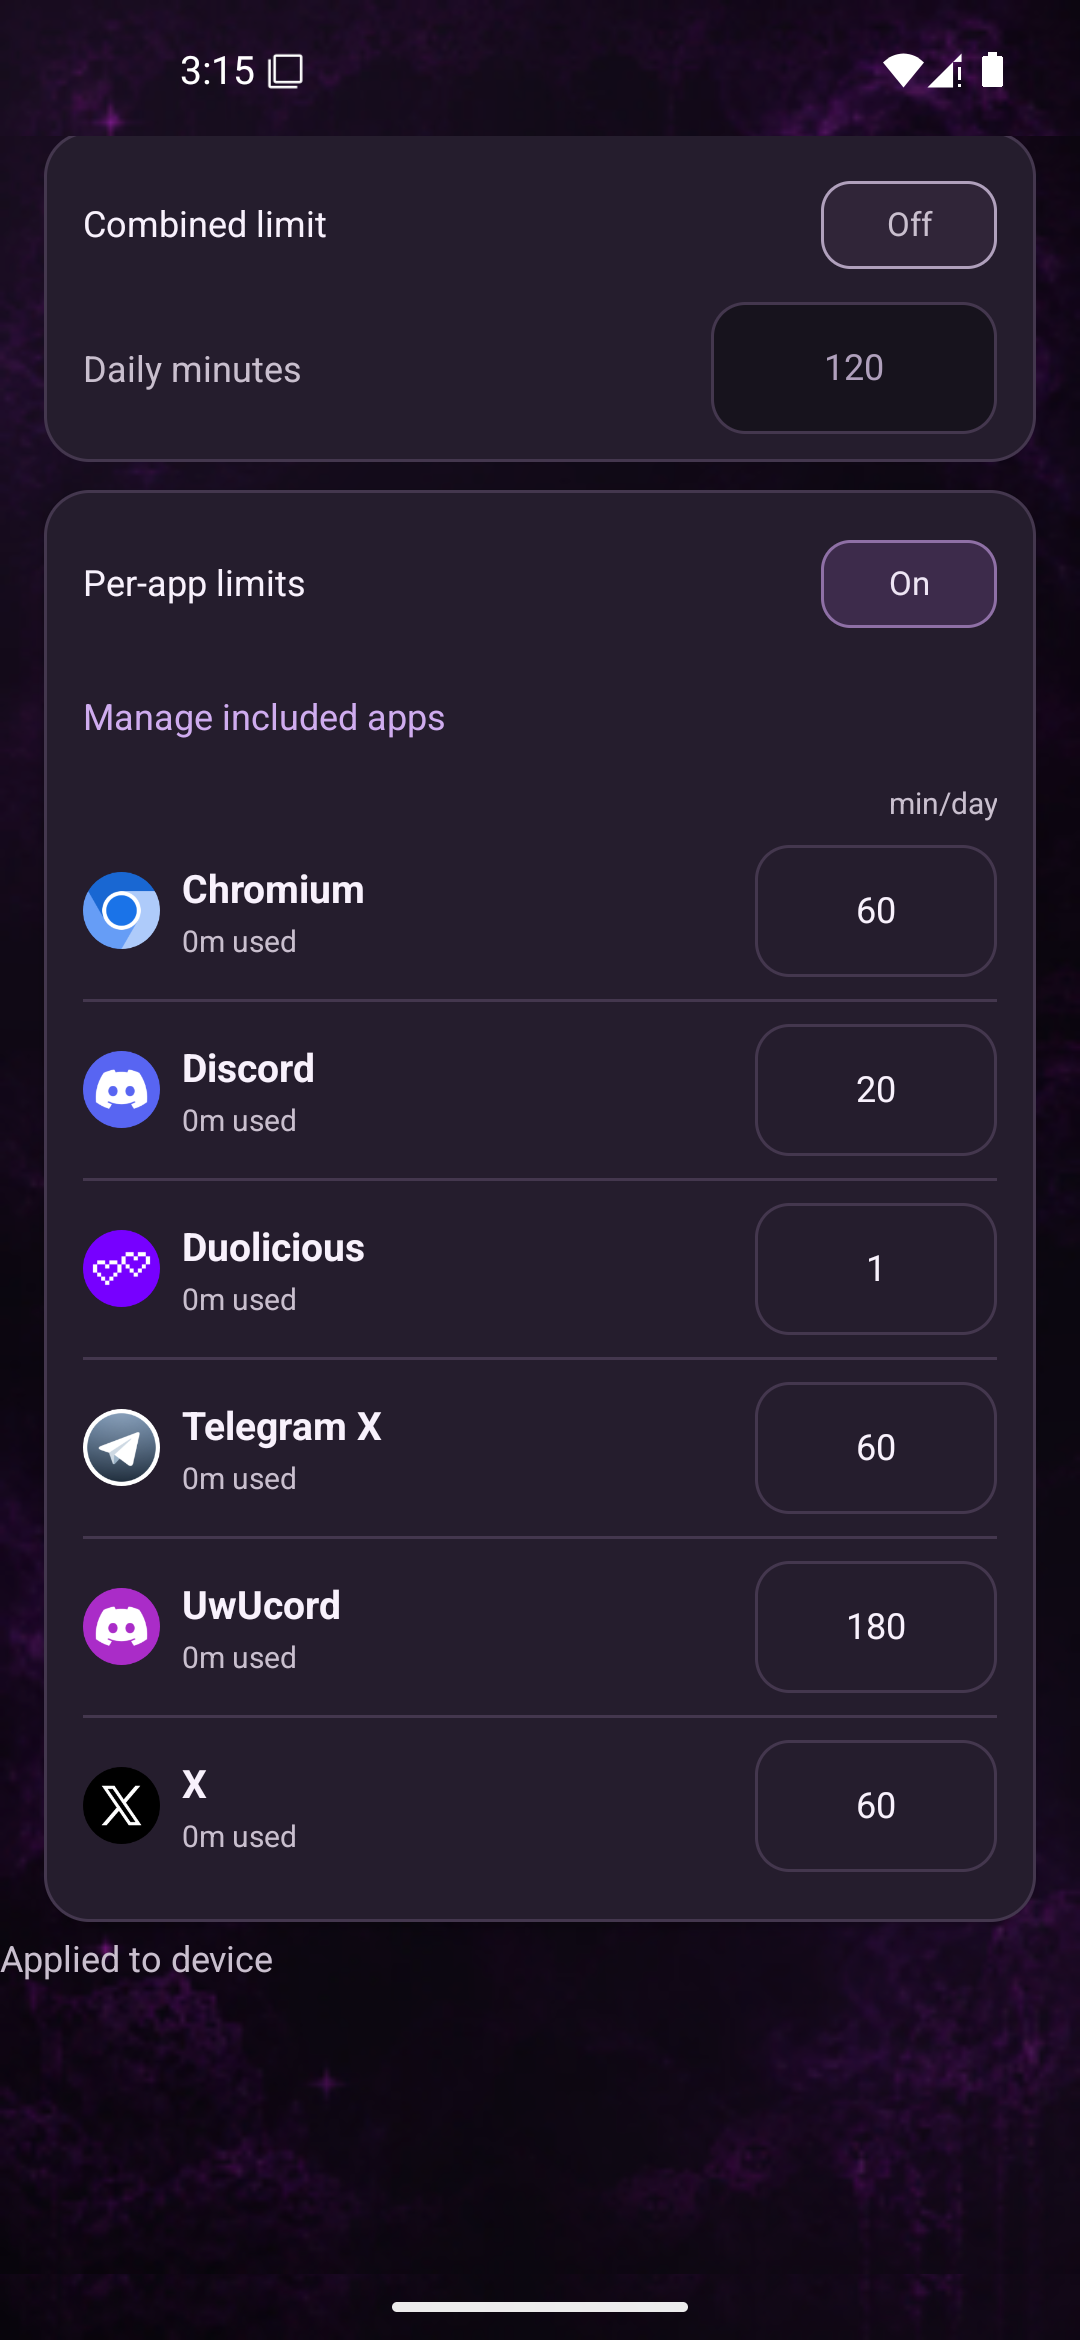
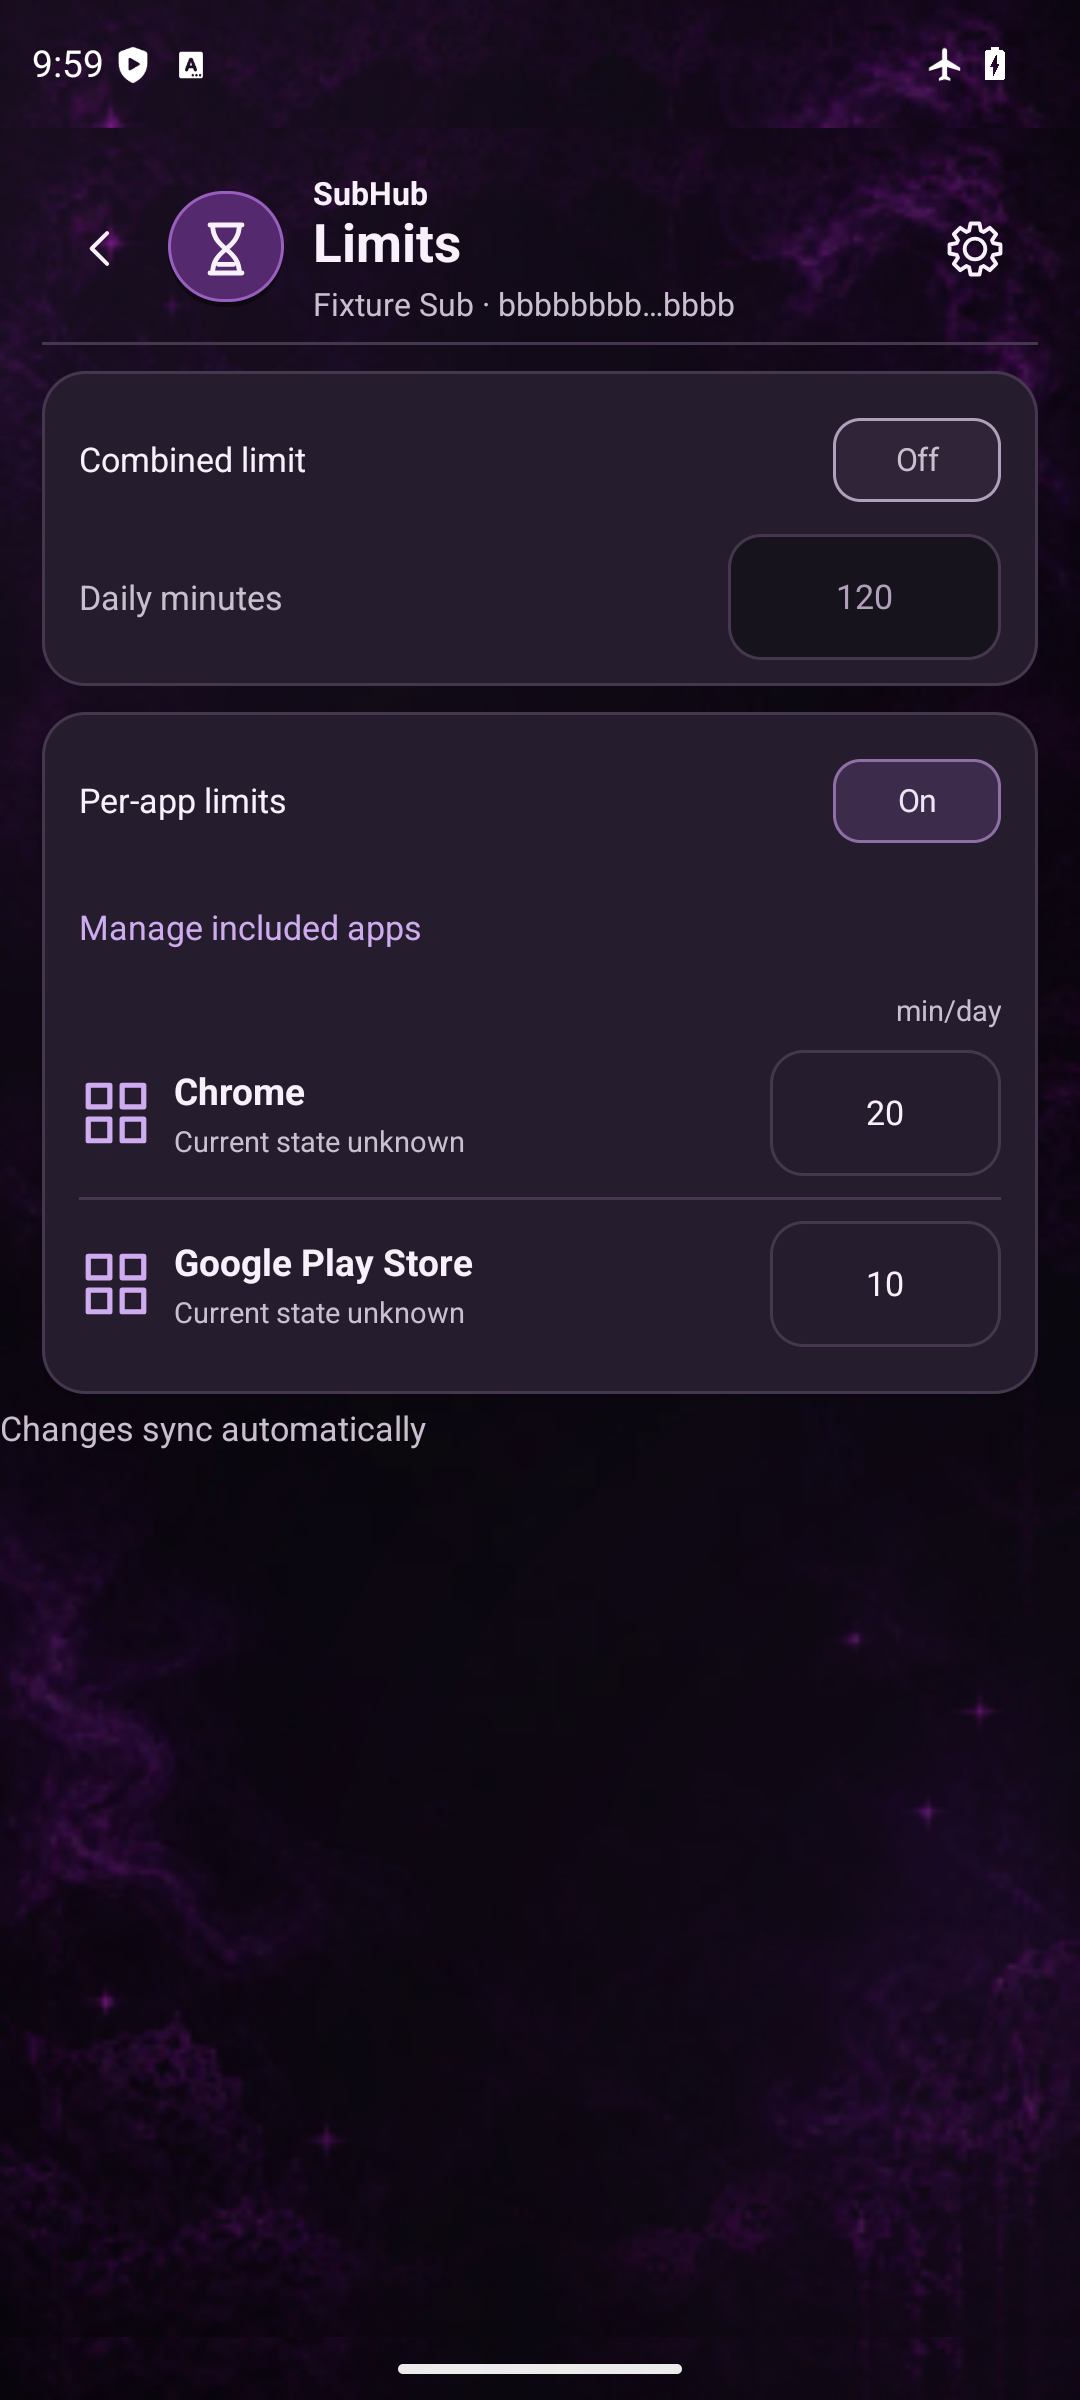
[docs] Show two synthetic daily allowances in Limits screenshots
Show the paired Dom editor and read-only Sub Contract with separate 20-minute Chrome and 10-minute Google Play Store daily allowances.

Both screenshots were captured on the owned API 35 guest against the qualified app and test APKs. Captured values and installed packages were asserted before capture. WebP encoding preserved every captured pixel.

Checks: two focused Android screenshot selectors, native visual inspection, pixel-exact WebP comparison, and git diff --check.

diff --git a/docs/screenshots/walkthrough/README.md b/docs/screenshots/walkthrough/README.md
@@ -2,7 +2,7 @@
 
 [Back to SubHub](../../../README.md)
 
-The paired Android emulators mirror the reference Contract. The profile names, Journal entry, and task submission are demo content created in those emulators.
+The Android captures show Dom and Sub screens with demo profiles, sample records, and synthetic Limits settings.
 
 [Overview and pairing](#overview-and-pairing) · [Contract, apps, and duration](#contract-apps-and-duration) · [Censor](#censor) · [Atmosphere](#atmosphere) · [Wallet and Tributes](#wallet-and-tributes) · [Tasks](#tasks) · [Journal, Profile, and progress](#journal-profile-and-progress) · [Settings, help, and updates](#settings-help-and-updates)
 
@@ -23,11 +23,11 @@ Dom starts from Overview or the Subs list. Sub can open the paired Contract from
 
 ## Contract, apps, and duration
 
-On Dom, open **Subs → Profile → Contract** and choose **Manage included apps** or **Limits**. The paired fixture mirrors six app allowances, with the shared allowance off and time remaining hidden on Sub.
+On Dom, open **Subs → Profile → Contract** and choose **Manage included apps** or **Limits**. Sub can read the applied settings under **Contract → App limits**. The Limits examples show daily allowances of 20 minutes for Chrome and 10 minutes for Google Play Store, with the combined limit off.
 
 <p align="center">
   <a href="dom-contract.webp"><img src="dom-contract.webp" alt="Dom Contract and the Manage included apps button" width="30%" /></a>
-  <a href="sub-contract.webp"><img src="sub-contract.webp" alt="Sub Contract with all six individual allowances" width="30%" /></a>
+  <a href="sub-contract.webp"><img src="sub-contract.webp" alt="Read-only Sub Contract with two daily app allowances" width="30%" /></a>
   <a href="dom-apps.webp"><img src="dom-apps.webp" alt="Paired app selection" width="30%" /></a>
 </p>
 

diff --git a/README.md b/README.md
@@ -27,7 +27,7 @@
 Choose the included apps, set individual or shared daily allowances, and configure the next session. Sub shows the applied rules, current allowances, and session status. On linked devices, check that a change was applied before relying on it.
 
 <p align="center">
-  <a href="docs/screenshots/walkthrough/sub-contract.webp"><img src="docs/screenshots/walkthrough/sub-contract.webp" alt="Sub Contract with six app allowances and a hidden service duration" width="32%" /></a>
+  <a href="docs/screenshots/walkthrough/sub-contract.webp"><img src="docs/screenshots/walkthrough/sub-contract.webp" alt="Sub Contract with two distinct daily app allowances" width="32%" /></a>
   <a href="docs/screenshots/walkthrough/dom-censor.webp"><img src="docs/screenshots/walkthrough/dom-censor.webp" alt="Paired Censor editor with separate appearance, capture, and filter controls" width="32%" /></a>
   <a href="docs/screenshots/walkthrough/dom-wallet.webp"><img src="docs/screenshots/walkthrough/dom-wallet.webp" alt="Dom Wallet controls for spending caps and paid pause" width="32%" /></a>
 </p>
